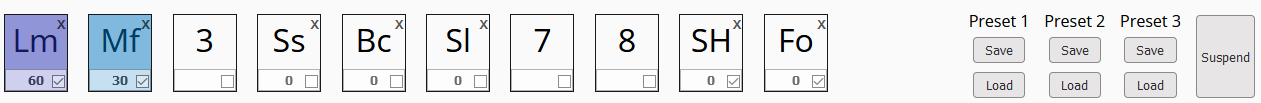
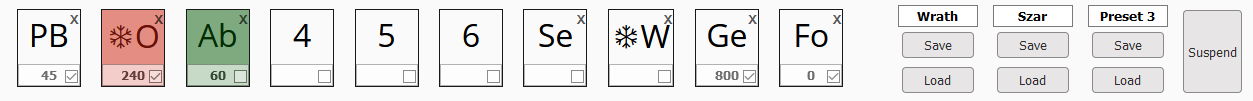
presets can be named

diff --git a/ArcanumEnhancements.user.js b/ArcanumEnhancements.user.js
@@ -1,6 +1,6 @@
 // ==UserScript==
 // @name         Arcanum Enhancements
-// @version      1706
+// @version      1708
 // @author       Craiel
 // @description  Automation
 // @updateURL    https://github.com/Craiel/ArcanumScript/raw/master/ArcanumEnhancements.user.js
@@ -104,7 +104,8 @@
         version: SettingsVersion,
         quickSlotTimes: [],
         quickSlotEnabled: [],
-        quickSlotPresets: {}
+        quickSlotPresets: {},
+        quickSlotPresetNames: {}
     };
 
     let intervalFunctions = [];
@@ -807,6 +808,14 @@
             target.quickSlotTimes = [];
         }
 
+        if(settings.quickSlotPresets === undefined) {
+            settings.quickSlotPresets = {};
+        }
+
+        if(settings.quickSlotPresetNames === undefined) {
+            settings.quickSlotPresetNames = {};
+        }
+
         for(let i = 0; i < QuickSlotCount; i++) {
             if(i === target.quickSlotTimes.length) {
                 target.quickSlotTimes.push(undefined);
@@ -874,7 +883,16 @@
             let presetArea = $('<div id="at_qs_preset' + i + '" style="display: flex; flex-direction: column; margin-right: 15px;">');
             buttonArea.append(presetArea);
 
-            let header = $('<div>Preset ' + (i + 1) + '</div>');
+            let header = $('<input id="at_qs_preset_name_' + i + '" type="text" class="timeset" style="width: 80px; font-weight:bold; text-align:center;"></input>');
+            header.change({id: i}, function(data) {
+                if(settings.quickSlotPresetNames === undefined) {
+                    settings.quickSlotPresetNames = {};
+                }
+
+                settings.quickSlotPresetNames[data.data.id] = $(this).val();
+                saveSettings();
+            });
+
             presetArea.append(header);
 
             let saveBtn = $('<button id="at_qs_presetbtn_save"' + i + '>Save</button>');
@@ -911,6 +929,7 @@
         }
 
         settings.quickSlotPresets[id] = JSON.stringify({
+            n: settings.quickSlotPresetNames[id],
             t: settings.quickSlotTimes,
             e: settings.quickSlotEnabled
         });
@@ -936,6 +955,10 @@
         }
 
         log("Loading Preset " + id);
+        if(preset.n !== undefined) {
+            settings.quickSlotPresetNames[id] = preset.n;
+        }
+
         if(preset.t !== undefined && preset.t.length === settings.quickSlotTimes.length) {
             for(let i = 0; i < preset.t.length; i++) {
                 if(preset.t[i] === null) {
@@ -967,6 +990,15 @@
             }
 
             elEnabled.prop('checked', enabled);
+        }
+
+        for(let i = 0; i < QuickSlotPresetCount; i++) {
+            let el = $('#at_qs_preset_name_' + i);
+            if(settings.quickSlotPresetNames[i] !== undefined){
+                el.val(settings.quickSlotPresetNames[i]);
+            } else {
+                el.val("Preset " + (i + 1));
+            }
         }
     }
 
